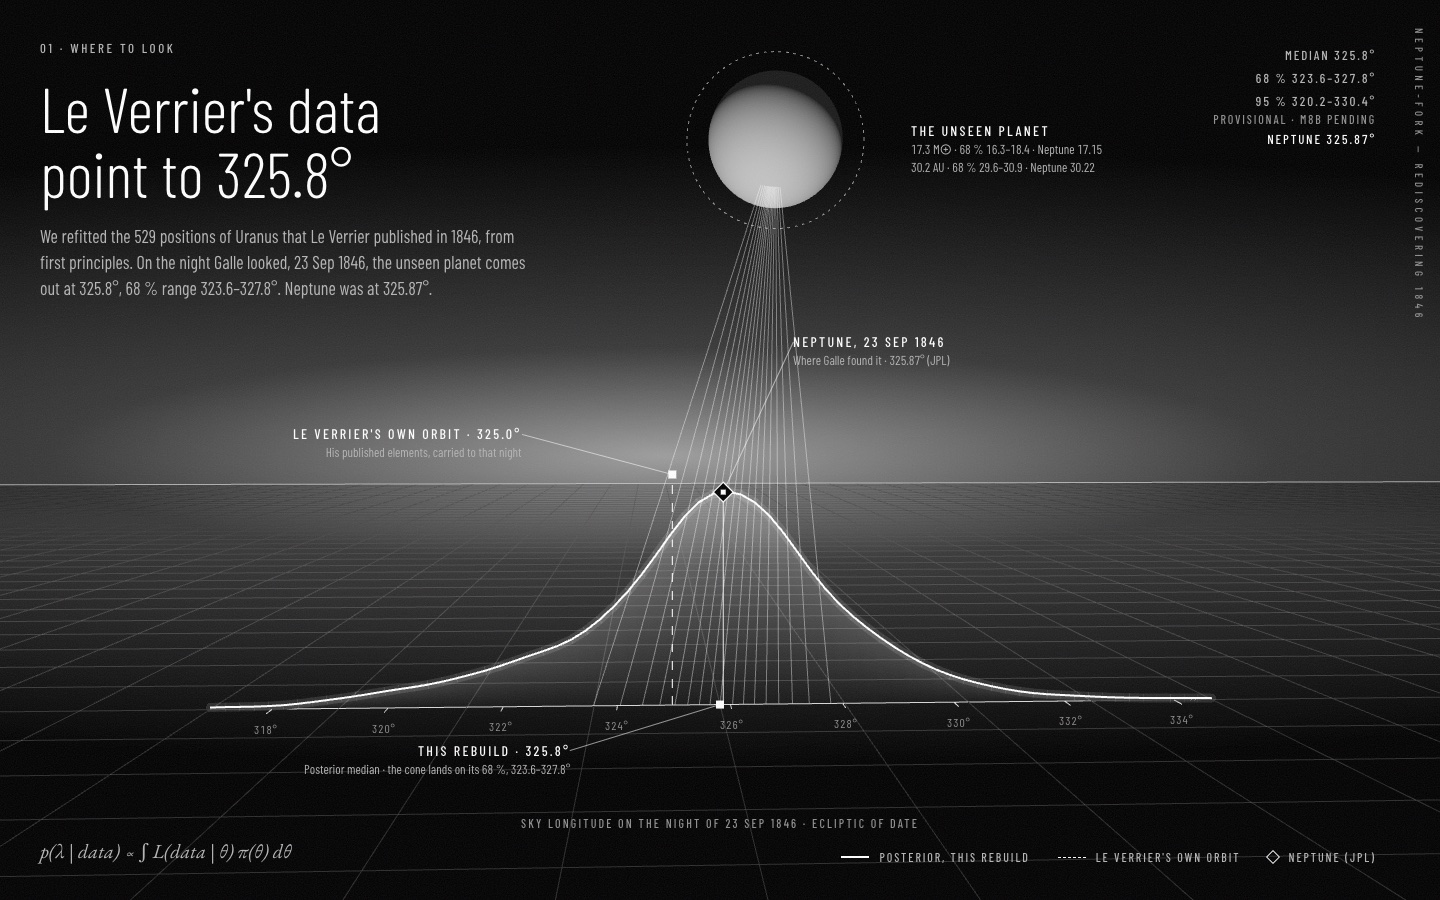
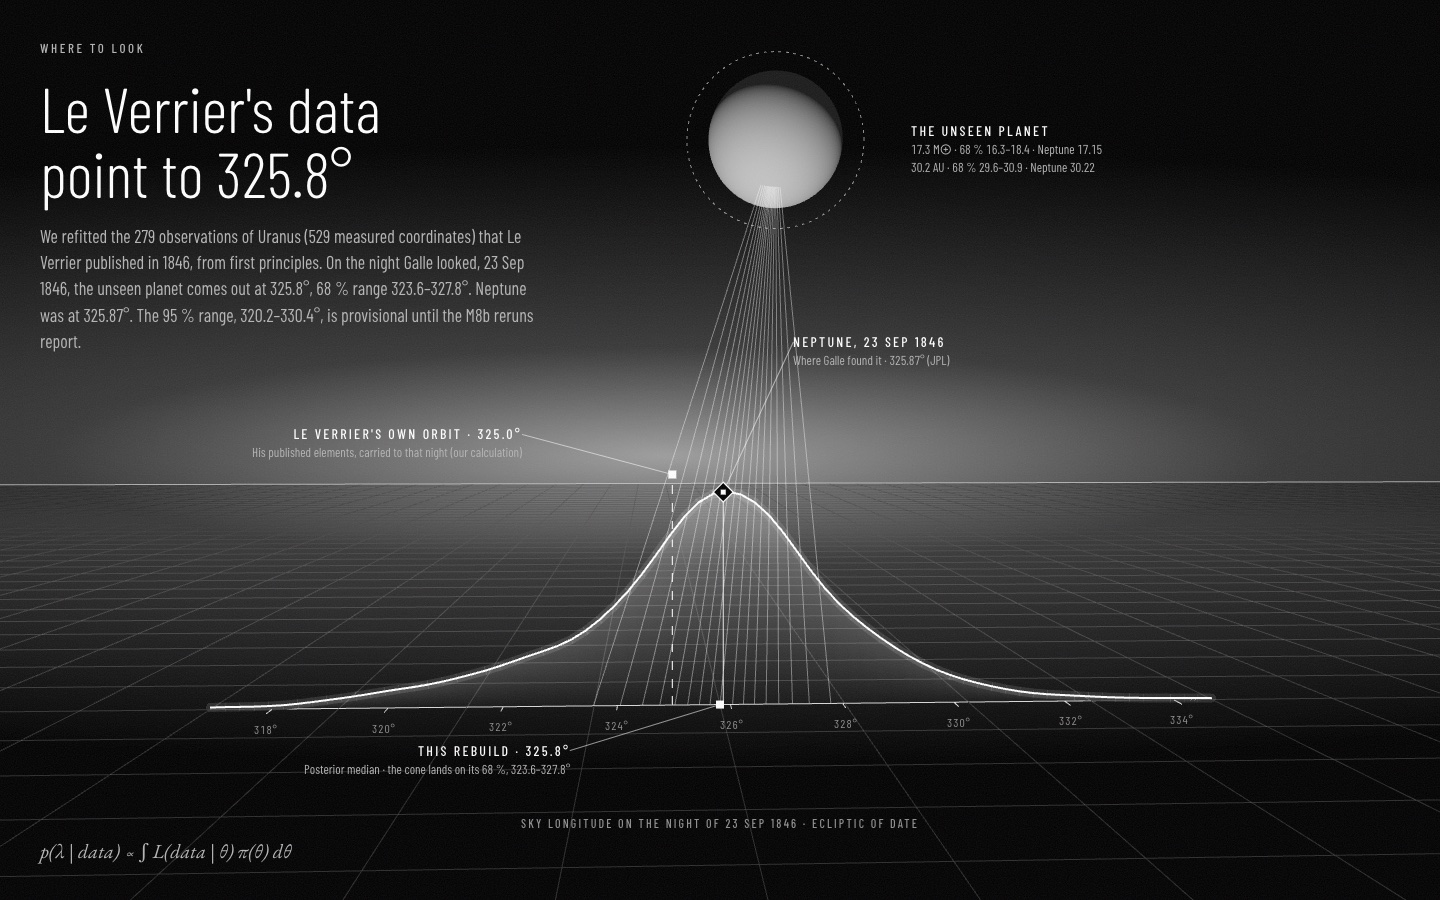
M7 panel 1 revisions: readout, legend, vertical edge title and section number removed; the 95 % range is one body sentence worded from its live status (pending until M8b reports); body gives 279 observations (529 measured coordinates), the count parsed from m6_fits.json and checked against n_measure

diff --git a/site/js/scene-headline.js b/site/js/scene-headline.js
@@ -9,7 +9,7 @@ import * as THREE from "three";
 import { Line2 } from "three/addons/lines/Line2.js";
 import { LineMaterial } from "three/addons/lines/LineMaterial.js";
 import { LineGeometry } from "three/addons/lines/LineGeometry.js";
-import { fmt, range } from "./data.js";
+import { dm, fmt, range } from "./data.js";
 
 const SX = 0.9; // world units per degree of longitude
 const H = 3.4; // height of the posterior's peak
@@ -252,7 +252,7 @@ export function mountHeadline(root, d) {
     const phone = w / h < 1;
     view.r = phone ? 44 : 22;
     // On a phone the copy takes the top third: shift the image down so the scene sits below it.
-    if (phone) camera.setViewOffset(w, h, 0, -0.1 * h, w, h);
+    if (phone) camera.setViewOffset(w, h, 0, -0.17 * h, w, h);
     else camera.clearViewOffset();
     camera.updateProjectionMatrix();
     fatLines.forEach((l) => l.material.resolution.set(w, h));
@@ -279,6 +279,13 @@ export function mountHeadline(root, d) {
       view.eGoal = Math.min(6, Math.max(3.6, drag.e + (e.clientY - drag.y) * 0.01));
       return;
     }
+    const lvB = project(new THREE.Vector3(X(d.leVerrier), 0, 0));
+    const lvT = project(anchors.lv);
+    if (Math.abs(px - lvB.x) < 8 && py > lvT.y - 8 && py < lvB.y + 8) {
+      probe.visible = false;
+      showLvTip(px, py);
+      return;
+    }
     const a = project(new THREE.Vector3(X(lonMin), 0, 0));
     const b = project(new THREE.Vector3(X(lonMax), 0, 0));
     const top = project(new THREE.Vector3(0, H, 0)).y;
@@ -297,16 +304,29 @@ export function mountHeadline(root, d) {
     tip.style.transform = `translate(${Math.round(q.x + 10)}px, ${Math.round(q.y - 34)}px)`;
   });
   canvas.addEventListener("pointerleave", () => { probe.visible = false; tip.hidden = true; });
+  // Le Verrier's printed prediction, on his line and on his label.
+  function showLvTip(x, y) {
+    tip.hidden = false;
+    tip.textContent = lvTipText(d);
+    tip.style.transform = `translate(${Math.round(Math.min(x + 12, w - 380))}px, ${Math.round(y + 14)}px)`;
+  }
+  const lvLabel = labels.lv;
+  lvLabel.addEventListener("pointerenter", () => {
+    const r = lvLabel.getBoundingClientRect(), o = root.getBoundingClientRect();
+    showLvTip(r.left - o.left, r.bottom - o.top);
+  });
+  lvLabel.addEventListener("pointerleave", () => { tip.hidden = true; });
 
   // Leader lines and stage markers, re-projected each frame.
   const OFFSETS = {
     neptune: [70, -150], median: [-150, 46], lv: [-150, -40], planet: [48, -10],
   };
+  const OFFSETS_PHONE = { ...OFFSETS, neptune: [36, -64] };
   const drawOverlay = () => {
     let s = "";
     for (const [k, v] of Object.entries(anchors)) {
       const p = project(v);
-      const [dx, dy] = OFFSETS[k];
+      const [dx, dy] = (PHONE.matches ? OFFSETS_PHONE : OFFSETS)[k];
       const lx = p.x + dx, ly = p.y + dy;
       const el = labels[k];
       // Hidden labels get no leader; on a phone the planet's label is unanchored (CSS).
@@ -356,29 +376,36 @@ export function mountHeadline(root, d) {
   requestAnimationFrame(frame);
 }
 
-/** The panel's text: headline, body, readout, labels, and the text alternative. */
+const lvTipText = (d) =>
+  `Le Verrier's printed prediction: ${dm(d.leVerrierPrinted.lon)} heliocentric longitude for ` +
+  `1 Jan 1847. Source: ${d.leVerrierPrinted.source}.`;
+
+/** The 95 % range as one sentence, from its status (site/js/data.js, interval95). */
+function sentence95(i) {
+  const r = `${range(i.lo, i.hi)}°`;
+  if (i.state === "final") return `The 95 % range is ${r}${i.source === "M6c" ? "" : ` (${i.source})`}.`;
+  if (i.state === "pending") return `The 95 % range, ${r}, is provisional until the M8b reruns report.`;
+  return `The 95 % range, ${r}, stays provisional: M8b did not meet the replacement rule.`;
+}
+
+/** The panel's text: headline, body, labels, and the text alternative. */
 export function fillHeadline(root, d) {
   const set = (sel, text) => { root.querySelector(sel).textContent = text; };
   const m = d.mass, a = d.a, i95 = d.i95;
   set("h1", `Le Verrier's data point to ${fmt(d.median)}°`);
   set(".body",
-    `We refitted the ${d.nMeasurements} positions of Uranus that Le Verrier published in 1846, ` +
-    `from first principles. On the night Galle looked, ${d.galle.text}, the unseen planet ` +
-    `comes out at ${fmt(d.median)}°, 68 % range ${range(d.lo68, d.hi68)}°. ` +
-    `Neptune was at ${fmt(d.jpl, 2)}°.`);
-  set("[data-r=median]", `Median ${fmt(d.median)}°`);
-  set("[data-r=i68]", `68 % ${range(d.lo68, d.hi68)}°`);
-  set("[data-r=i95]", `95 % ${range(i95.lo, i95.hi)}°`);
-  set("[data-r=i95s]", i95.state === "final" ? i95.note : i95.state === "pending"
-    ? "Provisional · M8b pending" : "Provisional");
-  set("[data-r=jpl]", `Neptune ${fmt(d.jpl, 2)}°`);
+    `We refitted the ${d.nObservations} observations of Uranus (${d.nMeasurements} measured ` +
+    `coordinates) that Le Verrier published in 1846, from first principles. On the night ` +
+    `Galle looked, ${d.galle.text}, the unseen planet comes out at ${fmt(d.median)}°, ` +
+    `68 % range ${range(d.lo68, d.hi68)}°. Neptune was at ${fmt(d.jpl, 2)}°. ` +
+    sentence95(i95));
   set("[data-anchor=neptune] .t", `Neptune, ${d.galle.text}`);
   set("[data-anchor=neptune] .s", `Where Galle found it · ${fmt(d.jpl, 2)}° (JPL)`);
   set("[data-anchor=median] .t", `This rebuild · ${fmt(d.median)}°`);
   set("[data-anchor=median] .s",
     `Posterior median · the cone lands on its 68 %, ${range(d.lo68, d.hi68)}°`);
   set("[data-anchor=lv] .t", `Le Verrier's own orbit · ${fmt(d.leVerrier)}°`);
-  set("[data-anchor=lv] .s", "His published elements, carried to that night");
+  set("[data-anchor=lv] .s", "His published elements, carried to that night (our calculation)");
   set("[data-anchor=planet] .t", "The unseen planet");
   set("[data-anchor=planet] .s1",
     `${fmt(m.median)} M⊕ · 68 % ${range(m.lo68, m.hi68)} · Neptune ${fmt(d.neptune.mass, 2)}`);
@@ -391,8 +418,8 @@ export function fillHeadline(root, d) {
     `(median); its 68 % range, ${range(d.lo68, d.hi68)}°, is the footprint of a cone of lines ` +
     `falling from a shaded sphere that stands for the planet. Neptune's true place, ` +
     `${fmt(d.jpl, 2)}°, is a diamond almost at the peak. Le Verrier's own published orbit ` +
-    `gives ${fmt(d.leVerrier)}°, shown as a dashed line. The 95 % range, ` +
-    `${range(i95.lo, i95.hi)}°, is ${i95.state === "final" ? "final" : i95.note}. Inferred ` +
+    `gives ${fmt(d.leVerrier)}° by our calculation, shown as a dashed line. ${lvTipText(d)} ` +
+    `${sentence95(i95)} Inferred ` +
     `mass ${fmt(m.median)} Earth masses (68 % ${range(m.lo68, m.hi68)}; Neptune ` +
     `${fmt(d.neptune.mass, 2)}); semi-major axis ${fmt(a.median)} AU, osculating in 1781 ` +
     `(68 % ${range(a.lo68, a.hi68)}; Neptune ${fmt(d.neptune.a, 2)}).`);

diff --git a/site/css/site.css b/site/css/site.css
@@ -46,18 +46,11 @@ h1 {
   font-size: 18px; line-height: 1.45; color: var(--ink-2); max-width: 31rem; margin-top: 18px;
 }
 
-/* Readout, top right */
-.readout {
-  position: absolute; right: 64px; top: 44px; text-align: right;
-  font-weight: 500; font-size: 13px; line-height: 1.75; letter-spacing: 0.14em;
-  text-transform: uppercase; color: var(--ink-2); font-variant-numeric: tabular-nums;
-}
-.readout .key { color: #fff; }
-.readout .status { display: block; color: var(--ink-3); font-size: 12px; line-height: 1.3; }
 
 /* Stage annotations: square, leader, caps title, secondary lines */
 .labels { position: absolute; inset: 0; pointer-events: none; }
 .anno { position: absolute; left: 0; top: 0; white-space: nowrap; }
+.anno.hoverable { pointer-events: auto; cursor: help; }
 .anno .t {
   font-weight: 500; font-size: 14px; letter-spacing: 0.16em; text-transform: uppercase;
   color: #fff; line-height: 18px;
@@ -70,7 +63,8 @@ h1 {
 }
 .tip {
   position: absolute; left: 0; top: 0; padding: 4px 8px; background: rgba(0, 0, 0, 0.82);
-  font-size: 13px; color: var(--ink); white-space: nowrap; font-variant-numeric: tabular-nums;
+  font-size: 13px; line-height: 1.4; color: var(--ink); max-width: 360px;
+  font-variant-numeric: tabular-nums; z-index: 2;
 }
 .axis-title {
   position: absolute; left: 50%; bottom: 70px; transform: translateX(-50%);
@@ -84,23 +78,7 @@ h1 {
 }
 .equation i { font-style: italic; }
 
-.legend {
-  position: absolute; right: 64px; bottom: 36px; display: flex; gap: 28px; list-style: none;
-  font-weight: 500; font-size: 12px; letter-spacing: 0.16em; text-transform: uppercase;
-  color: var(--ink-2); align-items: center;
-}
-.legend li { display: flex; align-items: center; gap: 10px; }
-.swatch { display: inline-block; width: 28px; height: 0; border-top: 2px solid var(--line); }
-.swatch.dashed { border-top: 1.2px dashed var(--line); }
-.swatch.diamond {
-  width: 10px; height: 10px; border: 1.2px solid var(--line); transform: rotate(45deg);
-}
 
-.edge-title {
-  position: fixed; right: 14px; top: 28px; writing-mode: vertical-rl;
-  font-weight: 500; font-size: 11px; letter-spacing: 0.4em; text-transform: uppercase;
-  color: var(--ink-3); pointer-events: none;
-}
 
 /* Grain: breaks up 8-bit banding in the horizon glow. */
 .grain {
@@ -112,7 +90,7 @@ h1 {
   position: absolute; left: var(--gutter); bottom: 120px; max-width: 34rem;
   color: #fff; font-size: 16px;
 }
-.no-webgl .labels, .no-webgl .axis-title, .no-webgl .legend { display: none; }
+.no-webgl .labels, .no-webgl .axis-title { display: none; }
 
 .sr-only {
   position: absolute; width: 1px; height: 1px; overflow: hidden;
@@ -123,16 +101,14 @@ h1 {
   :root { --gutter: 16px; }
   .copy { top: 24px; right: 16px; }
   .body { font-size: 16px; }
-  .readout { position: absolute; top: auto; bottom: 64px; right: 16px; font-size: 11px; }
-  .equation, .legend, .edge-title, .axis-title, .anno .s { display: none; }
+  .equation, .axis-title, .anno .s { display: none; }
   .anno[data-anchor="lv"], .anno[data-anchor="median"] { display: none; }
   .anno .t { font-size: 12px; }
-  /* Mass and distance leave the scene and sit, unanchored, above the readout. */
+  /* Mass and distance leave the scene and sit, unanchored, at the bottom. */
   .anno[data-anchor="planet"] {
-    transform: none !important; left: 16px; top: auto; bottom: 150px; white-space: normal;
+    transform: none !important; left: 16px; top: auto; bottom: 28px; white-space: normal;
   }
   .anno[data-anchor="planet"] .s { display: block; font-size: 12px; }
-  .readout { bottom: 24px; }
 }
 @media (prefers-reduced-motion: reduce) {
   * { scroll-behavior: auto !important; }

diff --git a/site/js/data.js b/site/js/data.js
@@ -59,10 +59,11 @@ function interval95(rep, m8, m8b) {
 
 /** Everything panel 1 (the headline) shows. */
 export async function loadHeadline() {
-  const [rep, conj, m5a, m8, m8b] = await Promise.all([
+  const [rep, conj, m5a, m6, m8, m8b] = await Promise.all([
     loadJSON("m6c_replacement.json"),
     loadJSON("m6c_conjunction.json"),
     loadJSON("m5a_fits.json"),
+    loadJSON("m6_fits.json"),
     loadJSON("m8_runs.json"),
     loadJSON("m8b.json", { optional: true }),
   ]);
@@ -72,6 +73,13 @@ export async function loadHeadline() {
   if (Math.abs(h.centre_deg - g.median) > 1e-6) {
     throw new Error("m6c_conjunction histogram is not centred on the reported median");
   }
+  // The observation count is only in m6_fits.json's description ("279 observations, 529
+  // measurements"); its measurement count must match the structured one.
+  const nm = /\((\d+) observations, (\d+) measurements\)/.exec(m6.description);
+  if (!nm || Number(nm[2]) !== rep.best_fit.n_measurements) {
+    throw new Error("m6_fits.json: observation count not found or inconsistent");
+  }
+  const lvPub = m6.comparison_targets.le_verrier;
   const counts = h.edges_rel_deg.slice(0, -1).map((_, i) =>
     Object.values(h.counts).reduce((s, arr) => s + arr[i], 0));
   return {
@@ -81,6 +89,9 @@ export async function loadHeadline() {
     mass: rep.mass_earth, a: rep.a_au,
     neptune: { mass: m5a.true_neptune.mass_earth, a: m5a.true_neptune.a_au_osculating_1781 },
     nMeasurements: rep.best_fit.n_measurements,
+    nObservations: Number(nm[1]),
+    // Le Verrier's printed prediction: heliocentric longitude at his elements' epoch, 1847.0.
+    leVerrierPrinted: { lon: lvPub.helio_lon_ecl_of_date_1847_deg, source: lvPub.sources[0] },
     galle: jdToDate(conj.galle_night_jd_tdb),
     hist: { centre: h.centre_deg, edges: h.edges_rel_deg, counts },
     i95: interval95(rep, m8, m8b),
@@ -88,4 +99,10 @@ export async function loadHeadline() {
 }
 
 export const fmt = (x, n = 1) => x.toFixed(n);
+/** Degrees and arcminutes, e.g. 326°32′. */
+export const dm = (x) => {
+  let d = Math.floor(x), m = Math.round((x - d) * 60);
+  if (m === 60) { d += 1; m = 0; }
+  return `${d}°${String(m).padStart(2, "0")}′`;
+};
 export const range = (lo, hi, n = 1) => `${fmt(lo, n)}–${fmt(hi, n)}`;

diff --git a/site/index.html b/site/index.html
@@ -24,22 +24,16 @@
       <svg class="leaders" aria-hidden="true"></svg>
 
       <div class="copy">
-        <p class="chapter">01 · Where to look</p>
+        <p class="chapter">Where to look</p>
         <h1 id="headline-title">Le Verrier's data</h1>
         <p class="body">Loading the results…</p>
       </div>
 
-      <dl class="readout" aria-label="Galle-night longitude">
-        <dt class="sr-only">Median</dt><dd data-r="median"></dd>
-        <dt class="sr-only">68 % range</dt><dd data-r="i68"></dd>
-        <dt class="sr-only">95 % range</dt><dd><span data-r="i95"></span><span class="status" data-r="i95s"></span></dd>
-        <dt class="sr-only">Neptune</dt><dd class="key" data-r="jpl"></dd>
-      </dl>
 
       <div class="labels" aria-hidden="true">
         <div class="anno" data-anchor="neptune"><p class="t"></p><p class="s"></p></div>
         <div class="anno" data-anchor="median"><p class="t"></p><p class="s"></p></div>
-        <div class="anno" data-anchor="lv"><p class="t"></p><p class="s"></p></div>
+        <div class="anno hoverable" data-anchor="lv"><p class="t"></p><p class="s"></p></div>
         <div class="anno" data-anchor="planet"><p class="t"></p><p class="s s1"></p><p class="s s2"></p></div>
         <div class="ticks"></div>
         <p class="tip" hidden></p>
@@ -48,17 +42,11 @@
       <p class="axis-title" aria-hidden="true"></p>
       <p class="equation" aria-label="Bayes: the posterior for the longitude is proportional to the likelihood times the prior, integrated over the other parameters"><i>p</i>(λ | data) ∝ ∫ <i>L</i>(data | θ) π(θ) dθ</p>
 
-      <ul class="legend" aria-hidden="true">
-        <li><span class="swatch solid"></span>Posterior, this rebuild</li>
-        <li><span class="swatch dashed"></span>Le Verrier's own orbit</li>
-        <li><span class="swatch diamond"></span>Neptune (JPL)</li>
-      </ul>
 
       <p class="alt sr-only"></p>
       <p class="error" hidden></p>
     </section>
   </main>
-  <p class="edge-title" aria-hidden="true">neptune-fork — rediscovering 1846</p>
   <div class="grain" aria-hidden="true"></div>
 
   <script type="module">

diff --git a/docs/notes/M7.md b/docs/notes/M7.md
@@ -45,6 +45,8 @@ for review of panel 1.
 | Neptune's mass and semi-major axis | `m5a_fits.json` `true_neptune` (`a_au_osculating_1781`, the same 1781 epoch as the fit) |
 | Galle's night | `m6c_conjunction.json` `galle_night_jd_tdb` |
 | measurement count | `m6c_replacement.json` `best_fit.n_measurements` |
+| observation count | `m6_fits.json` `description`, parsed ("279 observations, 529 measurements"). The loader checks the 529 against `best_fit.n_measurements` and stops if they differ. A structured field would be better; it needs an export change in `src/`, left for later |
+| Le Verrier's printed prediction and its source (hover) | `m6_fits.json` `comparison_targets.le_verrier`: `helio_lon_ecl_of_date_1847_deg` (shown as 326°32′) and `sources[0]`. The epoch label "1 Jan 1847" is text, tied to that key |
 | 95 % status | `m6c_replacement.json` `provisional`, `m8_runs.json` and `m8b.json` `rule_95` |
 
 **Geometry**
@@ -57,41 +59,53 @@ for review of panel 1.
   because it is inferred). The lines land on the posterior's quantiles 16 %, …, 84 %, so the
   cone's footprint is the 68 % interval.
 - Neptune is a diamond on a solid hairline (solid means true). Le Verrier's own orbit is dashed
-  (dashed means predicted).
+  (dashed means predicted). Its label says the 325.0° is our calculation from his published
+  elements.
+- Every series is labelled directly, so there is no legend.
+- The 95 % range is a sentence in the body, worded from its status (pending, provisional after
+  M8b, or final).
 
 **Interaction**
 - Drag orbits the camera slightly.
 - Hovering the curve shows a longitude and the share of the posterior below it.
+- Hovering Le Verrier's line or label shows his printed prediction, 326°32′ heliocentric for
+  1 Jan 1847, with its source.
 - The curve and then the cone draw in on load, except under `prefers-reduced-motion`.
 
 **Accessibility**
 - The canvas and the overlay are `aria-hidden`.
 - The text alternative is generated from the same data and is in the DOM.
-- The readout is a `<dl>`. The equation carries an `aria-label`.
+- The text alternative also carries Le Verrier's printed prediction and the 95 % sentence, so
+  neither is hover-only. The equation carries an `aria-label`.
 
 **Phone**
 - The copy takes the top third, and the image is shifted down below it.
 - Only Neptune's label stays anchored. Mass and distance move to a block above the readout.
-- The legend, equation, axis title and edge title are hidden.
+- The equation and axis title are hidden.
 
 **Checked**
 - Headless Chrome (SwiftShader WebGL) at 1440 × 900 and 390 × 844.
 - Hover tooltip, drag and reduced motion.
 - No page errors. The one console error is the `m8b.json` 404, the pending signal above.
-- Screenshot: `docs/notes/M7_headline.jpg`.
+- Screenshots: `docs/notes/M7_headline.jpg` and `docs/notes/M7_headline_phone.jpg`.
+- Some scripted loads timed out without reaching "ready", with no page error. Immediate reruns
+  passed twice. The likely cause is the CDN fetch of three.js; this is not confirmed.
 - Lighthouse was not run yet. It is an acceptance item for the finished site.
 
 **Libraries:** three.js 0.169.0 from jsDelivr, through an import map. Fonts are Barlow
 Condensed and EB Garamond, from Google Fonts.
 
-### Self-audit, panel 1 (UI rule)
+### Self-audit, panel 1 (UI rule; revised 2026-11-09)
+
+Revision: the readout block, the legend, the vertical edge title and the "01 ·" numbering are
+gone. The 95 % line moved into the body.
 
 Patterns from the list that the panel uses, and why:
-- **ALL CAPS labels:** used only for short labels: the annotations, readout, legend, axis
-  title and chapter label. This is the pilot-manual annotation language in DESIGN.md, and it
-  sets labels apart from prose. Headline and body are sentence case.
-- **Eyebrow and section number** ("01 · Where to look"), one element: it orients the reader
-  among five panels shown one per viewport.
+- **ALL CAPS labels:** used only for the annotation titles, the axis title and the eyebrow. This
+  is the pilot-manual annotation language in DESIGN.md, and it sets labels apart from prose.
+  Headline and body are sentence case.
+- **Eyebrow** ("Where to look"): names the panel's question in a site of five one-screen
+  panels. No section number.
 - **Gradient:** the horizon glow, the scene's light source, and the sphere's shading. Because a
   gradient raises the bar, the reference's registration marks and star field are left out.
 - **Grain** (a dithering-like texture) at 0.10 opacity: it breaks up 8-bit banding in the glow
@@ -99,10 +113,7 @@ Patterns from the list that the panel uses, and why:
 - **Several opacities of one white:** these are the hierarchy in a greyscale-only design. Grid
   0.17, cone 0.4, Le Verrier's line 0.85, curve 1. Text uses the four ink tokens.
 - **Italics:** only in the equation, as mathematical convention.
-- **Vertical edge title** (not on the list, but decorative): the site's only name on the
-  screen. Hidden on phones.
-
-Not used: tags or pills, Instrument Serif, negative kerning, dividers, bordered containers (the
+Not used: section numbering, a legend, a readout block, the vertical edge title, tags or pills, Instrument Serif, negative kerning, dividers, bordered containers (the
 tooltip has a background and no border), ASCII images, squircles, monospace (tabular numerals
 come from Barlow), periods in titles, code breadcrumbs (the loading line no longer names
 `site/data/`). Detail is kept to four annotations, each tied to a number.
